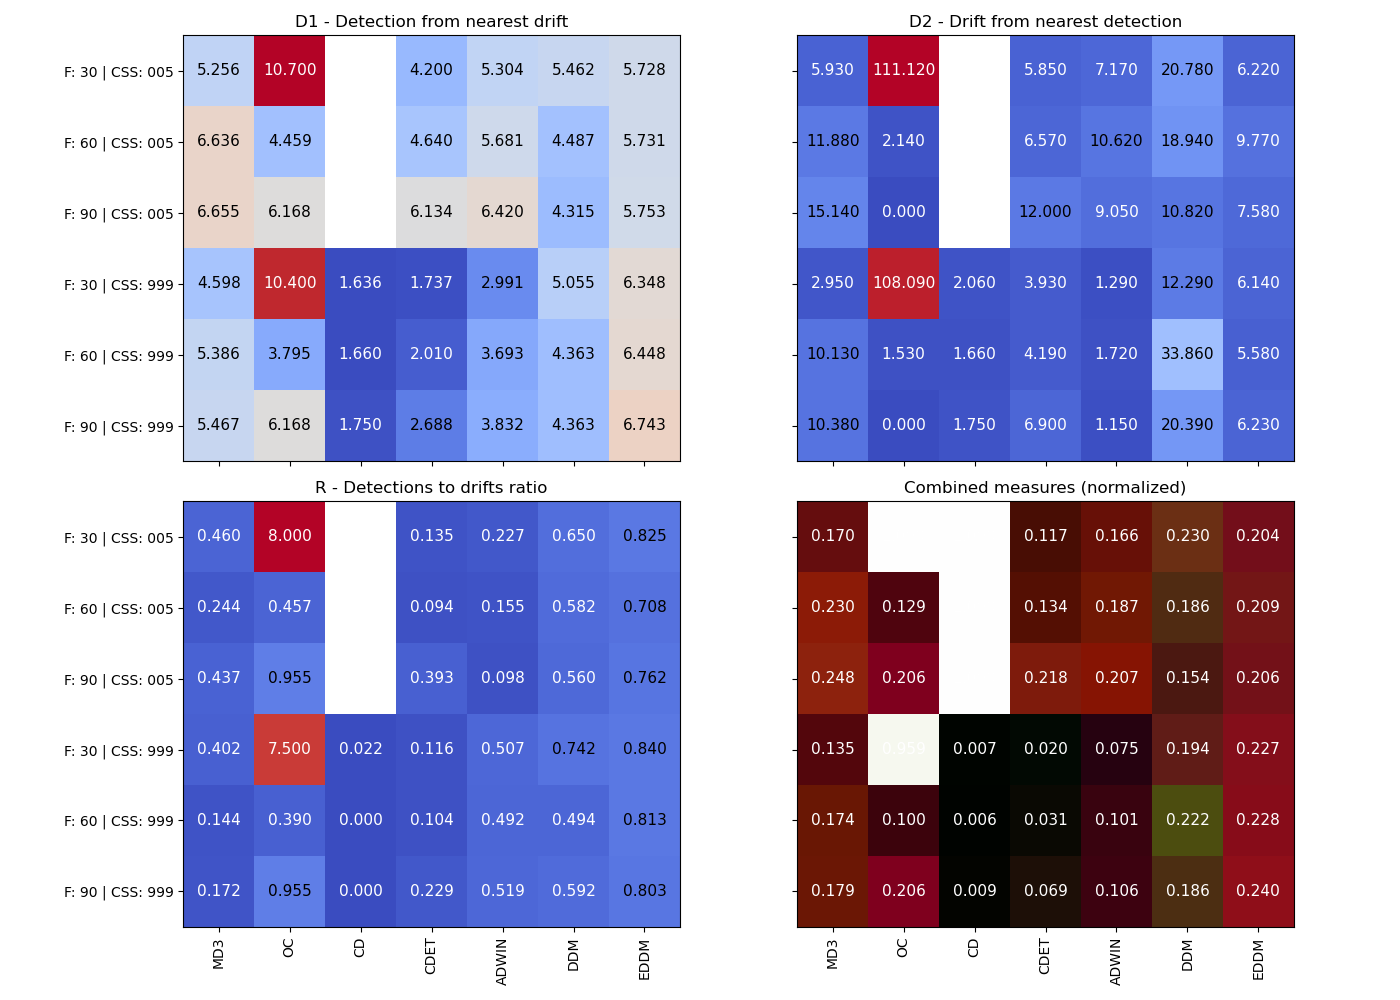
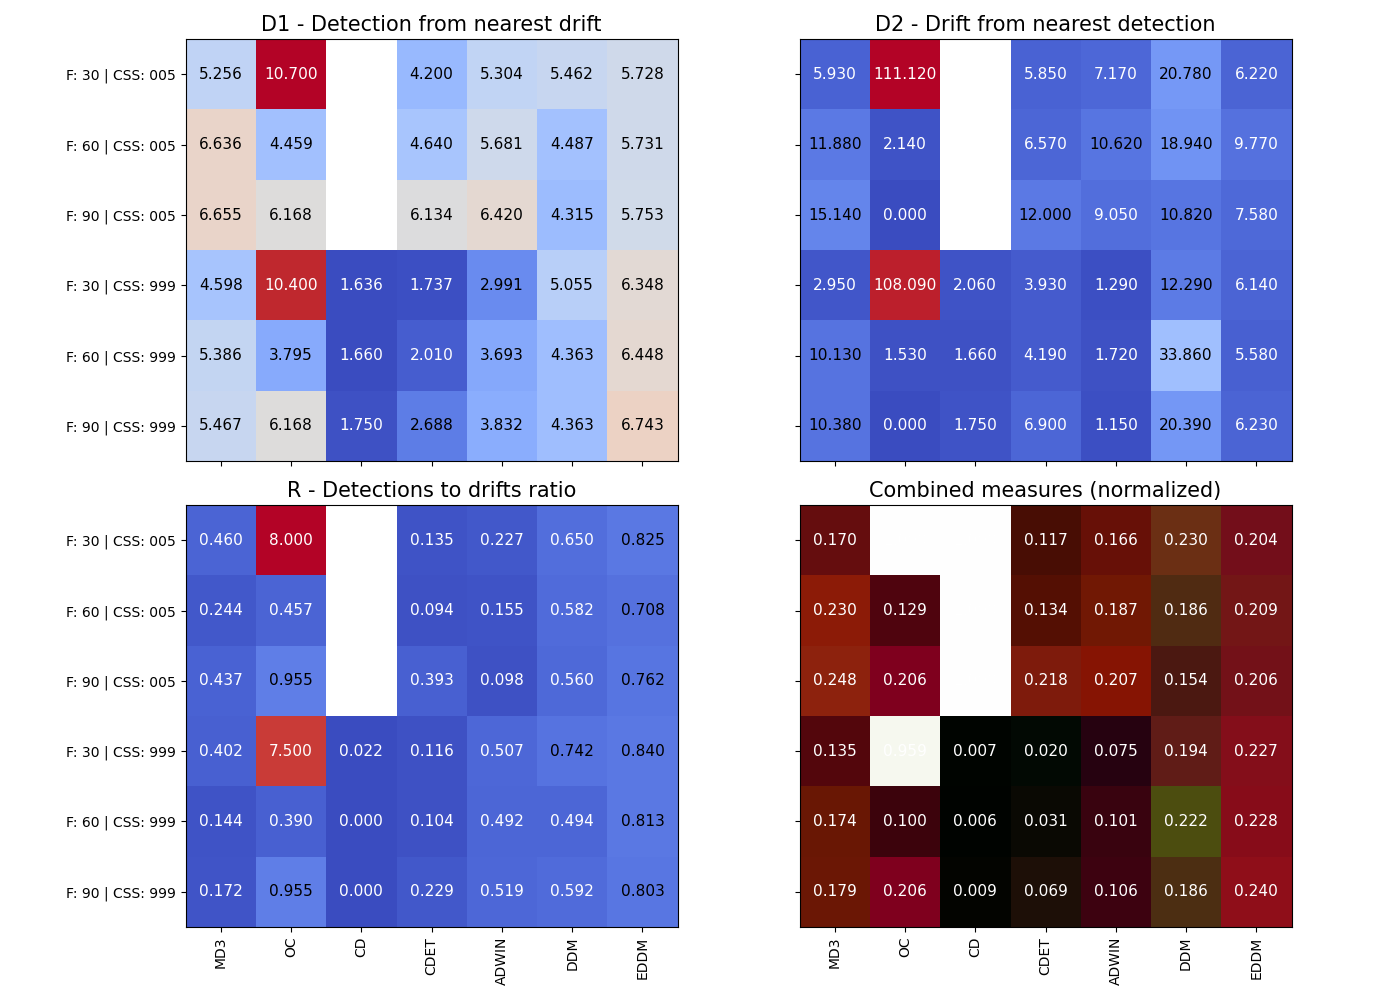
.

diff --git a/analyze_compare.py b/analyze_compare.py
@@ -54,13 +54,13 @@ fig, ax = plt.subplots(2, 2, figsize=(14,10), sharex=True, sharey=True)
 ax = ax.ravel()
 
 ax[0].imshow(mean_results[:,:,0], cmap='coolwarm')
-ax[0].set_title('D1 - Detection from nearest drift')
+ax[0].set_title('D1 - Detection from nearest drift', fontsize=15)
 
 ax[1].imshow(mean_results[:,:,1], cmap='coolwarm')
-ax[1].set_title('D2 - Drift from nearest detection')
+ax[1].set_title('D2 - Drift from nearest detection', fontsize=15)
 
 ax[2].imshow(mean_results[:,:,2], cmap='coolwarm')
-ax[2].set_title('R - Detections to drifts ratio')
+ax[2].set_title('R - Detections to drifts ratio', fontsize=15)
 
 col = np.copy(mean_results).astype(float)
 for c in range(3):
@@ -69,7 +69,7 @@ for c in range(3):
     col[:,:,c]-=np.min(col[:,:,c])
     col[:,:,c]/=np.max(col[:,:,c])+0.00001
 ax[3].imshow(col)
-ax[3].set_title('Combined measures (normalized)')
+ax[3].set_title('Combined measures (normalized)', fontsize=15)
 
 for aa in ax:
     aa.set_xticks(np.arange(7), ['MD3', 'OC', 'CD', 'CDET', 'ADWIN', 'DDM', 'EDDM'], rotation=90)
